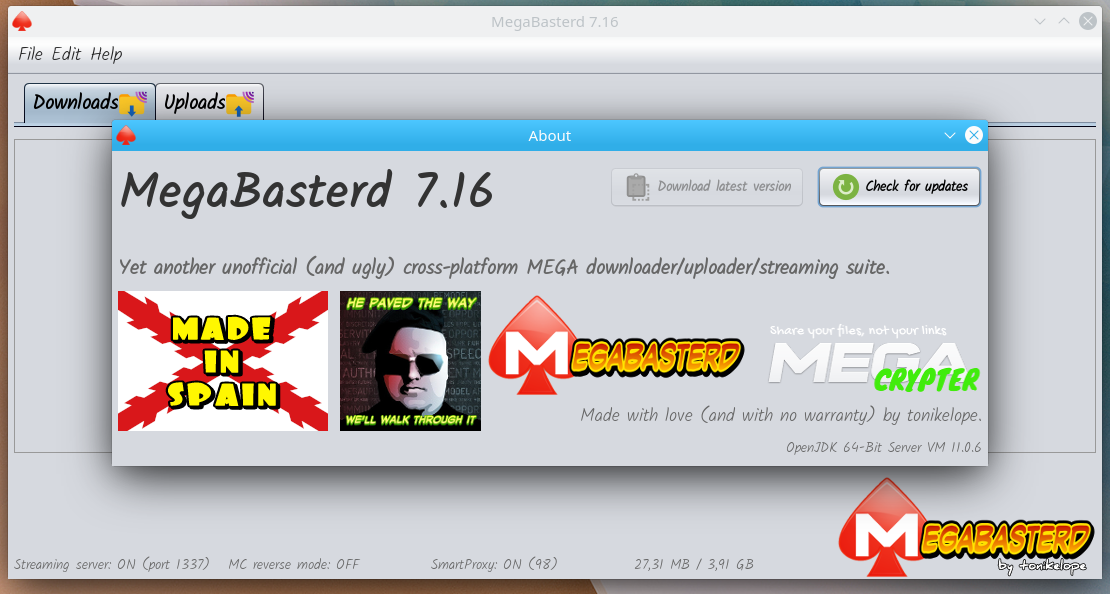
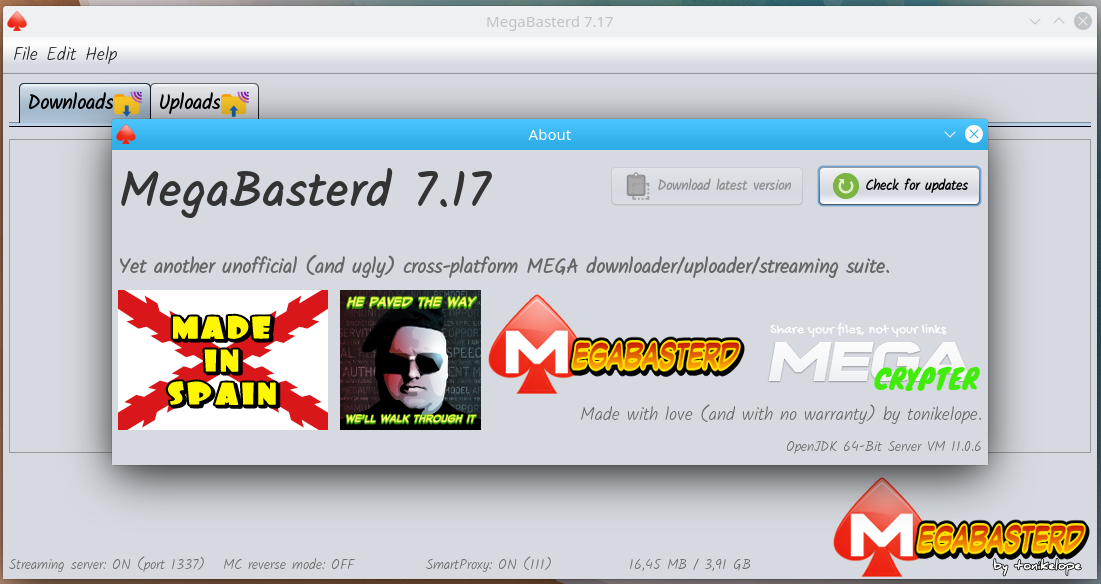
7.17
Fix https://github.com/tonikelope/megabasterd/issues/198

(cherry picked from commit 8f78d0bfdf3366385cc248e34620139c70f77dea)

diff --git a/src/main/java/com/tonikelope/megabasterd/MainPanel.java b/src/main/java/com/tonikelope/megabasterd/MainPanel.java
@@ -55,7 +55,7 @@ import javax.swing.UIManager;
  */
 public final class MainPanel {
 
-    public static final String VERSION = "7.16";
+    public static final String VERSION = "7.17";
     public static final boolean FORCE_SMART_PROXY = false; //TRUE FOR DEBUGING SMART PROXY
     public static final int THROTTLE_SLICE_SIZE = 16 * 1024;
     public static final int DEFAULT_BYTE_BUFFER_SIZE = 16 * 1024;

diff --git a/src/main/java/com/tonikelope/megabasterd/SettingsDialog.java b/src/main/java/com/tonikelope/megabasterd/SettingsDialog.java
@@ -488,7 +488,6 @@ public class SettingsDialog extends javax.swing.JDialog {
         }
 
         smart_proxy_checkbox.setSelected(use_smart_proxy);
-        multi_slot_down_checkbox.setSelected(use_smart_proxy);
         rec_smart_proxy_label.setEnabled(use_smart_proxy);
         custom_proxy_list_label.setEnabled(use_smart_proxy);
         custom_proxy_textarea.setEnabled(use_smart_proxy);
